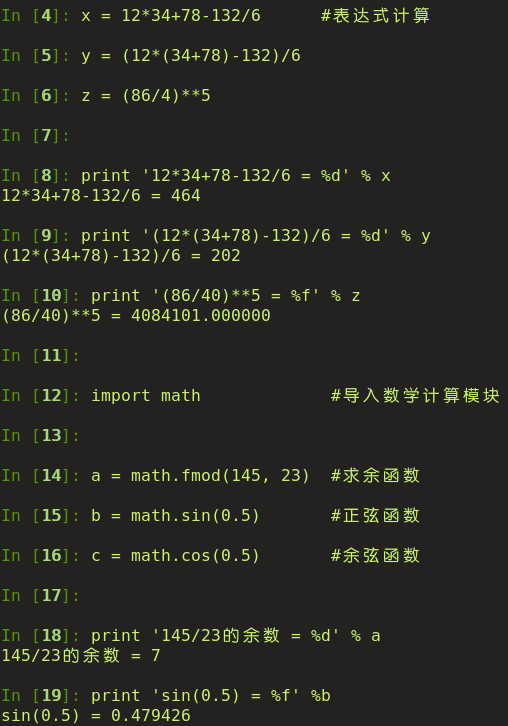
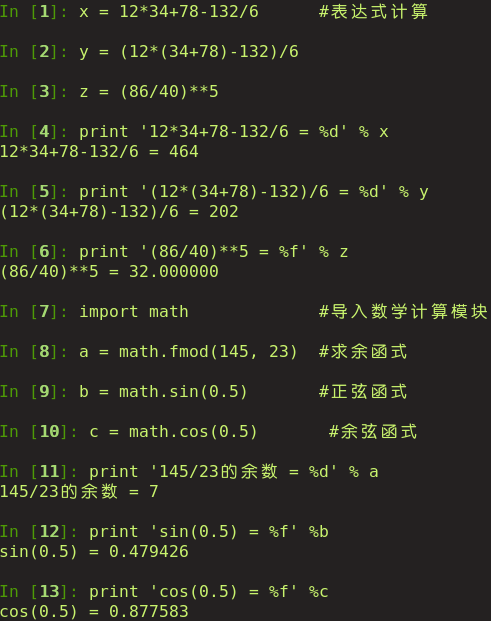
Issue 925; Issue 926

diff --git a/exercise/part1-CDays/cday-5/script/cdays-5-exercise-2.py b/exercise/part1-CDays/cday-5/script/cdays-5-exercise-2.py
@@ -7,7 +7,7 @@
 
 x = 12*34+78-132/6      #表达式计算
 y = (12*(34+78)-132)/6
-z = (86/4)**5
+z = (86/40)**5
 
 print '12*34+78-132/6 = %d' % x
 print '(12*(34+78)-132)/6 = %d' % y
